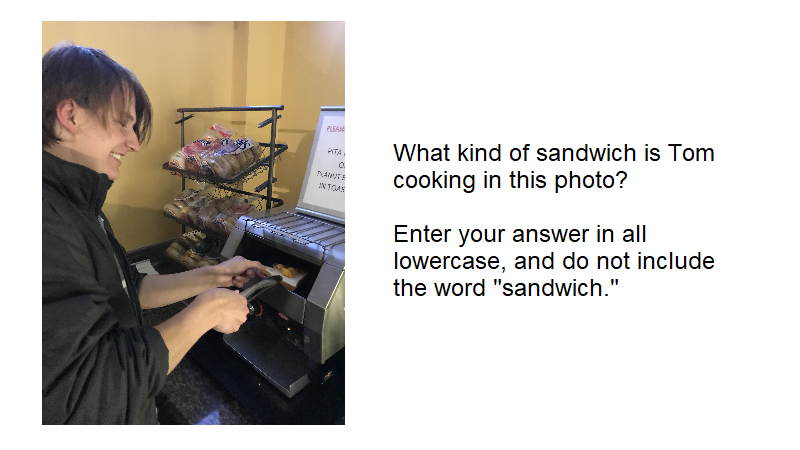
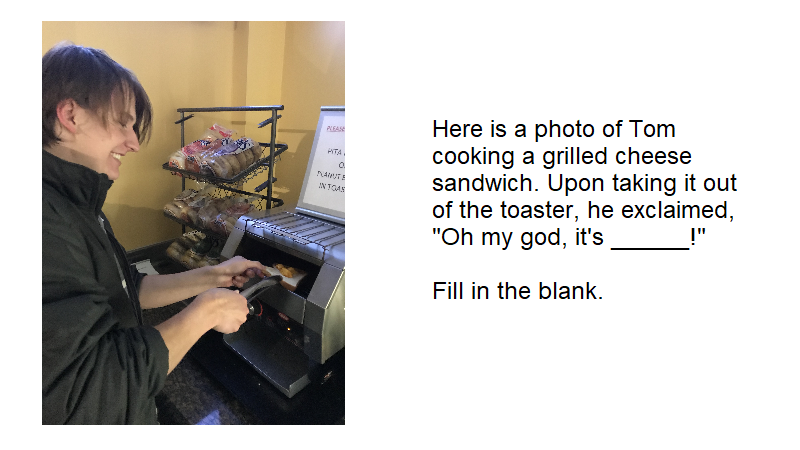
Few improvements and new question

Changed region(s): [[0.4688, 0.2489, 0.9375, 0.6844]]

diff --git a/index.html b/index.html
@@ -14,9 +14,10 @@
             <div class="container">
                 Select a challenge (I've put the answers at the bottom for now if you want to see them): <br>
                 <button id="sample">Sample</button>
-                <button id="masterchef">Master Chef (straightforward example)</button>
                 <button id="zoom">Zoom</button>
-                <button id="election">Election (hard example)</button>
+                <button id="masterchef">Master Chef</button>
+                <button id="trails">Trails</button>
+                <button id="election">Election</button>
                 <button id="last">The Last Challenge</button>
                 <div id="question" class="question-none"></div>
             </div>
@@ -33,14 +34,13 @@
             
             <br>
             
-            <div id="output">
-            <textarea class="message" readonly id="message"></textarea>
-            </div>
+            <div id="output" class="empty"></div>
             
             <br> <br> <br> <br> <br> <br>
             Answers<br>
-            Master Chef: grilled cheese<br>
             Zoom: Hey dudes<br>
+            Master Chef: beautiful<br>
+            Trails: 0.903<br>
             Election: 272<br>
             The Last Challenge: Let's go, Tom!!!<br>
         </center>
@@ -51,67 +51,90 @@
             
             var bsample = document.getElementById("sample");
             bsample.onclick = function() {
+                output.className = "empty";
                 question.className = "question-sample";
                 addl.style.visibility = 'hidden';
-                msg.value = "Type the answer to unlock a message!";
-            }
-            
-            var bmasterchef = document.getElementById("masterchef");
-            bmasterchef.onclick = function() {
-                question.className = "question-masterchef";
-                addl.style.visibility = 'hidden';
-                msg.value = "Type the answer to unlock a message!";
+                output.innerHTML = "Type the answer to unlock a message!";
             }
             
             var bzoom = document.getElementById("zoom");
             bzoom.onclick = function() {
+                output.className = "empty";
                 question.className = "question-zoom";
                 addl.style.visibility = 'visible';
-                addl.innerHTML = "<a href=https://www.youtube.com/watch?v=E1dXqyNCHYM>https://www.youtube.com/watch?v=E1dXqyNCHYM</a>";
-                msg.value = "Type the answer to unlock a message!";
+                addl.innerHTML = "<a href=\"https://www.youtube.com/watch?v=E1dXqyNCHYM\" target=\"_blank\">https://www.youtube.com/watch?v=E1dXqyNCHYM</a>";
+                output.innerHTML = "Type the answer to unlock a message!";
+            }
+            
+            var bmasterchef = document.getElementById("masterchef");
+            bmasterchef.onclick = function() {
+                output.className = "empty";
+                question.className = "question-masterchef";
+                addl.style.visibility = 'hidden';
+                output.innerHTML = "Type the answer to unlock a message!";
+            }
+            
+            var btrails = document.getElementById("trails");
+            btrails.onclick = function() {
+                output.className = "empty";
+                question.className = "question-trails";
+                addl.style.visibility = 'hidden';
+                output.innerHTML = "Type the answer to unlock a message!";
             }
             
             var belection = document.getElementById("election");
             belection.onclick = function() {
+                output.className = "empty";
                 question.className = "question-election";
                 addl.style.visibility = 'visible';
-                msg.value = "Type the answer to unlock a message!";
+                addl.innerHTML = "If you're using a computer, <a href=\"./files/states.txt\" target=\"_blank\">this text file</a> with each state's electoral votes and connecting states may be helpful.";
+                output.innerHTML = "Type the answer to unlock a message!";
             }
             
             var blast = document.getElementById("last");
             blast.onclick = function() {
+                output.className = "empty";
                 question.className = "question-last";
                 addl.style.visibility = 'hidden';
-                msg.value = "Type the answer to unlock a message!";
+                output.innerHTML = "Type the answer to unlock a message!";
             }
             
             var ansField = document.getElementById("answer");
             var goButton = document.getElementById("go");
-            var msg = document.getElementById("message");
             
             goButton.onclick = function() {
                 ans = ansField.value
                 if (question.className === "question-sample" && ans === "Yes") {
-                    msg.value = "Here will appear a message";
-                }
-                else if (question.className === "question-masterchef" && ans === "grilled cheese") {
-                    msg.value = "Happy birthday Tom! Can’t wait to see you in Kirkland for realsies. - Michael Baick \n \n"
-                                + "Hey dude! Happy bird-day!! Let's hope the only downsizing this year is the number of Ferrero Rochers consumed. In all seriousness, hope you have a great day and can't wait to celebrate with you in person soon! You (and your Mom) were incredible in KDS, and I'm so grateful we met through Kirkland. Can't wait for a spring filled with oreos, Office episodes, original memes, and olive oil!! - Ellie \n \n \n"
-                                + "Hey Tom,\n\nHappy birthday, and hopefully this is a great day and the start of a great year for you! I really miss you and everything that used to happen back when we were living together in B-34, but hopefully we’ll get to reunite soon. In the meantime, though, seeing you on Zoom and hearing the weekly “Oh, hey, dudes!” has always been something to look forward to. Just like your screams when you’re losing (to someone who isn’t me) in Smash, your energy never fails to carry over any distance, no matter how long, and make us smile.\n\nIt would be remiss of me, however, not to mention everything else you bring to those around you. We’re so lucky to have a talented pianist, innovative bot maker, patient pset buddy, and understanding and caring friend among us. Thank you for being the person you are, Tom. I can’t wait to see you again and, once things are back to normal, give you a big hug.\n\nLove,\nEdward";
+                    output.className = "message";
+                    output.innerHTML = "Here will appear a message";
                 }
                 else if (question.className === "question-zoom" && ans.toLowerCase().includes("hey") && ans.toLowerCase().includes("dudes")) {
-                    msg.value = "Happy happy birthday Tom!! Hearing your “hey bud!” upon joining the Kirkland Zoom is always a highlight of my week. Your presence, thoughtfulness, humor, wisdom, and willingness to listen have brought light to so many otherwise-difficult moments, from our abrupt departure from school to a very long election night. I’m so grateful to have grown closer to you over the past year, and I can’t wait for the semester ahead with you. Wishing you a day and year full of nature, sunset runs, chocolate, Multigrain Cheerios, good classes, laughter, peace, and happiness — you deserve the world! - Alia \n \n \n"
-                                + "HELLLOOOO TOM!!!\n \nas I recently mentioned in my dreams you offered to carry me across a Venus fly trap field... and then you carried me!!! Shows how consciously and subconsciously I view you as such a reliable and thoughtful friend. From day 1 I've admired your adventure seeking spirit and how dedicated you are to what you put your mind to. You're always there for your friends no matter what and in all your interactions with us you build people up with like solid, humorous comportment! Idk how to describe it, but your \"hey bud\" brightens up so many ppl's days and I know it's made me feel better when life is feeling a bit cloudy. Come to think of it, Tom, you're always so cheery and fun...how does he do it????!! - Anastasia"
+                    output.className = "message";
+                    output.innerHTML = "Happy happy birthday Tom!! Hearing your “hey bud!” upon joining the Kirkland Zoom is always a highlight of my week. Your presence, thoughtfulness, humor, wisdom, and willingness to listen have brought light to so many otherwise-difficult moments, from our abrupt departure from school to a very long election night. I’m so grateful to have grown closer to you over the past year, and I can’t wait for the semester ahead with you. Wishing you a day and year full of nature, sunset runs, chocolate, Multigrain Cheerios, good classes, laughter, peace, and happiness — you deserve the world! - Alia <br> <br> <br>"
+                                       + "HELLLOOOO TOM!!!<br> <br>as I recently mentioned in my dreams you offered to carry me across a Venus fly trap field... and then you carried me!!! Shows how consciously and subconsciously I view you as such a reliable and thoughtful friend. From day 1 I've admired your adventure seeking spirit and how dedicated you are to what you put your mind to. You're always there for your friends no matter what and in all your interactions with us you build people up with like solid, humorous comportment! Idk how to describe it, but your \"hey bud\" brightens up so many ppl's days and I know it's made me feel better when life is feeling a bit cloudy. Come to think of it, Tom, you're always so cheery and fun...how does he do it????!! - Anastasia"
+                }
+                else if (question.className === "question-masterchef" && ans === "beautiful") {
+                    output.className = "message";
+                    output.innerHTML = "Happy birthday Tom! Can’t wait to see you in Kirkland for realsies. - Michael Baick <br> <br>"
+                                       + "Hey dude! Happy bird-day!! Let's hope the only downsizing this year is the number of Ferrero Rochers consumed. In all seriousness, hope you have a great day and can't wait to celebrate with you in person soon! You (and your Mom) were incredible in KDS, and I'm so grateful we met through Kirkland. Can't wait for a spring filled with oreos, Office episodes, original memes, and olive oil!! - Ellie <br> <br> <br>"
+                                       + "Hey Tom,<br><br>Happy birthday, and hopefully this is a great day and the start of a great year for you! I really miss you and everything that used to happen back when we were living together in B-34, but hopefully we’ll get to reunite soon. In the meantime, though, seeing you on Zoom and hearing the weekly “Oh, hey, dudes!” has always been something to look forward to. Just like your screams when you’re losing (to someone who isn’t me) in Smash, your energy never fails to carry over any distance, no matter how long, and make us smile.<br><br>It would be remiss of me, however, not to mention everything else you bring to those around you. We’re so lucky to have a talented pianist, innovative bot maker, patient pset buddy, and understanding and caring friend among us. Thank you for being the person you are, Tom. I can’t wait to see you again and, once things are back to normal, give you a big hug.<br><br>Love,<br>Edward";
+                }
+                else if (question.className === "question-trails" && parseFloat(ans) === 0.903) {
+                    output.className = "message";
+                    output.innerHTML = "";
                 }
                 else if (question.className === "question-election" && ans === "272") {
-                    msg.value = "Hey dude! It is your birthday! I spent many months missing being in Kirkland and being able to yell across the wall to you, Edward, and David Chen. But I can't wait to be living with you at 86 Kirkland this semester. You always find a way to make me laugh and have a great time!\nHappy birthday,\nSarah \n \n \n"
-                                + "Happy Birthday Tom! Though I'm not entirely sure how it happened, I'm so glad we became friends. You keep me on my toes in the best possible way, and though I never know where they will lead, I always look forward to our conversations and other miscellaneous encounters (such as when you stole my phone after CS124 lecture, the photographic evidence of which I encountered when looking for pictures of you in my camera roll, per Edward's request). I hope you have the best day today, and I am looking forward to seeing you in person again soon. At some point we will have to play that Brahms duet that you told me to learn, which I actually did learn over the summer but probably have forgotten at this point. - Rebecca";
+                    output.className = "message";
+                    output.innerHTML = "Hey dude! It is your birthday! I spent many months missing being in Kirkland and being able to yell across the wall to you, Edward, and David Chen. But I can't wait to be living with you at 86 Kirkland this semester. You always find a way to make me laugh and have a great time!<br>Happy birthday,<br>Sarah <br> <br> <br>"
+                                       + "Happy Birthday Tom! Though I'm not entirely sure how it happened, I'm so glad we became friends. You keep me on my toes in the best possible way, and though I never know where they will lead, I always look forward to our conversations and other miscellaneous encounters (such as when you stole my phone after CS124 lecture, the photographic evidence of which I encountered when looking for pictures of you in my camera roll, per Edward's request). I hope you have the best day today, and I am looking forward to seeing you in person again soon. At some point we will have to play that Brahms duet that you told me to learn, which I actually did learn over the summer but probably have forgotten at this point. - Rebecca";
                 }
                 else if (question.className === "question-last" && ans === "Let's go, Tom!!!") {
-                    msg.value = "I'll start putting the photos heres.";
+                    output.className = "message";
+                    output.innerHTML = "I'll start putting the photos here.";
                 }
                 else {
-                    msg.value = "Incorrect answer!";
+                    output.className = "empty";
+                    output.innerHTML = "Incorrect answer!";
                 }
             }
         </script>

diff --git a/style.css b/style.css
@@ -1,42 +1,49 @@
 .question-sample {
     background: #fff url('./questions/sample.png');
     background-size: cover;
-    width: 1200;
-    height: 675;
-}
-
-.question-masterchef {
-    background: #fff url('./questions/masterchef.png');
-    background-size: cover;
-    width: 1200;
-    height: 675;
+    width: 800;
+    height: 450;
 }
 
 .question-zoom {
     background: #fff url('./questions/zoom.png');
     background-size: cover;
-    width: 1200;
-    height: 675;
+    width: 800;
+    height: 450;
+}
+
+.question-masterchef {
+    background: #fff url('./questions/masterchef.png');
+    background-size: cover;
+    width: 800;
+    height: 450;
 }
 
 .question-election {
     background: #fff url('./questions/election.png');
     background-size: cover;
-    width: 1200;
-    height: 675;
+    width: 800;
+    height: 450;
+}
+
+.question-trails {
+    background: #fff url('./questions/trails.png');
+    background-size: cover;
+    width: 800;
+    height: 450;
 }
 
 .question-last {
     background: #fff url('./questions/last.png');
     background-size: cover;
-    width: 1200;
-    height: 675;
+    width: 800;
+    height: 450;
 }
 
 .message {
     background: #fff;
-    width: 1200;
-    height: 1600;
+    width: 800;
     font-family: "Times New Roman", Times, serif;
     font-size: 20px;
+    text-align: left;
 }
